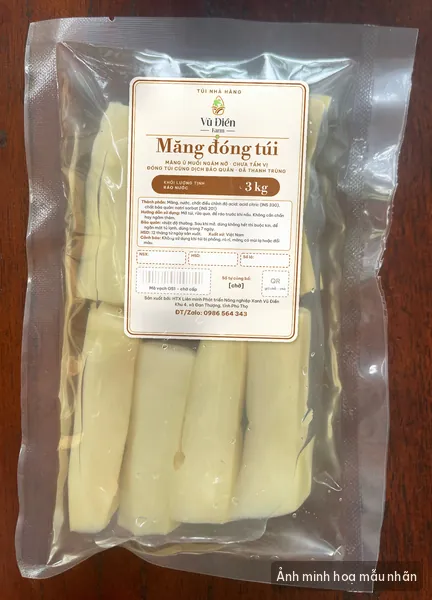
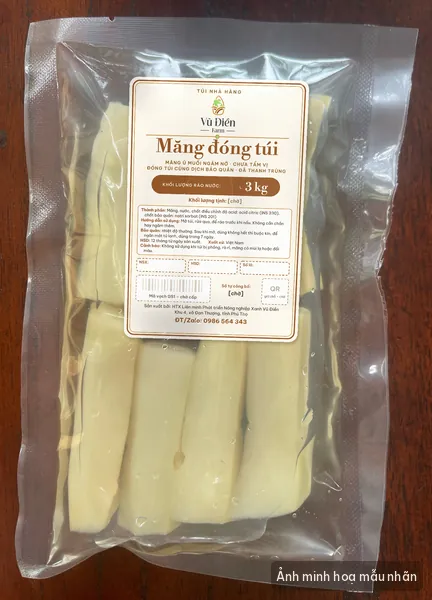
Update drained-weight wording on the preview site.
Replace the published static files with the new build.

Changed region(s): [[0.3009, 0.3, 0.6921, 0.54]]

diff --git a/cau-chuyen/mang-dong-tui-la-gi/index.html b/cau-chuyen/mang-dong-tui-la-gi/index.html
@@ -57,7 +57,7 @@
    <div class="tt-prose">
 <p>Với nhiều quán phở, bún, miến, măng là món không thể thiếu: bún măng vịt, miến măng, canh măng, lẩu măng. Nhưng để có một nồi măng ngon, bếp thường phải mất nhiều công: mua măng, ngâm, xả, đun, thay nước nhiều lần. <strong>Măng đóng túi</strong> của Vũ Điền Farm được làm ra để bớt phần việc đó cho bếp.</p>
 <h2>Măng đóng túi là gì?</h2>
-<p>Măng đóng túi là sản phẩm làm từ <strong>măng ủ muối</strong> của xưởng Vũ Điền ở Đan Thượng, Phú Thọ. Tại xưởng, măng ủ muối được xả muối và <strong>ngâm cho nở</strong> – khối lượng tăng khoảng <strong>2,3 lần</strong> – rồi cho vào túi cùng <strong>dịch bảo quản</strong> và hàn kín. Thành phần: Măng, nước, chất điều chỉnh độ acid: acid citric (INS 330), chất bảo quản: natri sorbat (INS 201). Măng <strong>chưa tẩm vị</strong>; khối lượng ghi trên túi là <strong>khối lượng tịnh ráo nước</strong>.</p>
+<p>Măng đóng túi là sản phẩm làm từ <strong>măng ủ muối</strong> của xưởng Vũ Điền ở Đan Thượng, Phú Thọ. Tại xưởng, măng ủ muối được xả muối và <strong>ngâm cho nở</strong> – khối lượng tăng khoảng <strong>2,3 lần</strong> – rồi cho vào túi cùng <strong>dịch bảo quản</strong> và hàn kín. Thành phần: Măng, nước, chất điều chỉnh độ acid: acid citric (INS 330), chất bảo quản: natri sorbat (INS 201). Măng <strong>chưa tẩm vị</strong>; khối lượng ghi trên túi (300 g, 500 g, 3 kg, 5 kg) là <strong>khối lượng ráo nước của măng</strong>; trong túi còn có dịch bảo quản.</p>
 <p>Nói ngắn gọn: phần “làm nở măng” vốn tốn thời gian nhất đã được làm tại xưởng. Ở bếp chỉ cần: mở túi, rửa qua, để ráo trước khi nấu. Không cần chần hay ngâm thêm.</p>
 <h2>Bếp tiết kiệm được gì?</h2>
 <p><strong>1. Thời gian sơ chế mỗi ngày.</strong> Với măng tự sơ chế, bếp phải chuẩn bị từ hôm trước và trông nồi nhiều giờ. Với măng đóng túi, bếp mở túi, rửa qua, để ráo là vào món.</p>

diff --git a/cau-chuyen/tu-mang-tuoi-den-mang-u-muoi-quy-trinh-u-tai-xuong/index.html b/cau-chuyen/tu-mang-tuoi-den-mang-u-muoi-quy-trinh-u-tai-xuong/index.html
@@ -69,7 +69,7 @@
 <h2>5. Với măng đóng túi: chuẩn bị măng đóng túi</h2>
 <p>Một phần măng ủ muối được chuyển sang làm <strong>măng đóng túi</strong>: măng được xả muối và xử lý cho nở theo quy trình của xưởng, khối lượng tăng khoảng 2,3 lần so với măng ủ muối ban đầu.</p>
 <h2>6. Cân, đóng túi, ghi lô</h2>
-<p>Măng ủ muối được cân theo khối lượng tịnh, cho vào túi, hút chân không và hàn kín miệng túi. Măng đóng túi được đóng túi cùng dịch bảo quản, khối lượng ghi theo khối lượng tịnh ráo nước. Trên mỗi túi có ngày sản xuất, hạn sử dụng và số lô. Túi nhà hàng hiện là <strong>3–5 kg</strong>; túi bán lẻ măng đóng túi 300 g và 500 g <strong>sắp có</strong>.</p>
+<p>Măng ủ muối được cân theo khối lượng tịnh, cho vào túi, hút chân không và hàn kín miệng túi. Măng đóng túi được đóng túi cùng dịch bảo quản; khối lượng ghi trên túi là khối lượng ráo nước của măng, trong túi còn có dịch bảo quản. Trên mỗi túi có ngày sản xuất, hạn sử dụng và số lô. Túi nhà hàng hiện là <strong>3–5 kg</strong>; túi bán lẻ măng đóng túi 300 g và 500 g <strong>sắp có</strong>.</p>
 <h2>7. Lưu kho thành phẩm</h2>
 <p>Thành phẩm được xếp trong kho thành phẩm của xưởng, ở nhiệt độ thường. Măng ủ muối và măng đóng túi có <strong>hạn sử dụng 12 tháng</strong>. HTX sản xuất theo đơn đặt hàng, hạn chế tồn kho lâu.</p>
 <h2>Điều quy trình này mang lại cho bếp</h2>

diff --git a/san-pham/mang-dong-tui/index.html b/san-pham/mang-dong-tui/index.html
@@ -62,7 +62,7 @@
    <p class="lead">Măng ủ muối của xưởng Đan Thượng được <b>ngâm nở</b>, <b>chưa tẩm vị</b>, rồi <b>đóng túi cùng dịch bảo quản</b> và <b>thanh trùng</b> sau khi đóng túi – bếp bớt khâu chuẩn bị mỗi ngày.</p>
    <dl class="specs">
     <dt>Thành phần</dt><dd>Măng, nước, chất điều chỉnh độ acid: acid citric (INS 330), chất bảo quản: natri sorbat (INS 201)</dd>
-    <dt>Khối lượng</dt><dd>Ghi theo <b>khối lượng tịnh ráo nước</b></dd>
+    <dt>Khối lượng</dt><dd>Khối lượng ghi trên túi (300 g, 500 g, 3–5 kg) là <b>khối lượng ráo nước của măng</b>; trong túi còn có dịch bảo quản.</dd>
     <dt>Quy cách</dt><dd><b>Túi nhà hàng 3–5 kg</b> – đang cung ứng · <b>Túi bán lẻ 300 g và 500 g</b> <span class="sap-co">Sắp có</span></dd>
     <dt>Dùng cho</dt><dd>Quán phở, bún, miến (bún măng, miến măng, canh măng) · nhà hàng Việt (lẩu, xào, canh) · bếp ăn tập thể, căng tin · mối buôn và cửa hàng thực phẩm · gia đình (túi bán lẻ – sắp có)</dd>
     <dt>Bảo quản</dt><dd><b>Bảo quản ở nhiệt độ thường. Hạn sử dụng 12 tháng từ ngày sản xuất.</b> Sau khi mở, dùng không hết thì buộc kín, để ngăn mát tủ lạnh, dùng trong 7 ngày.</dd>
